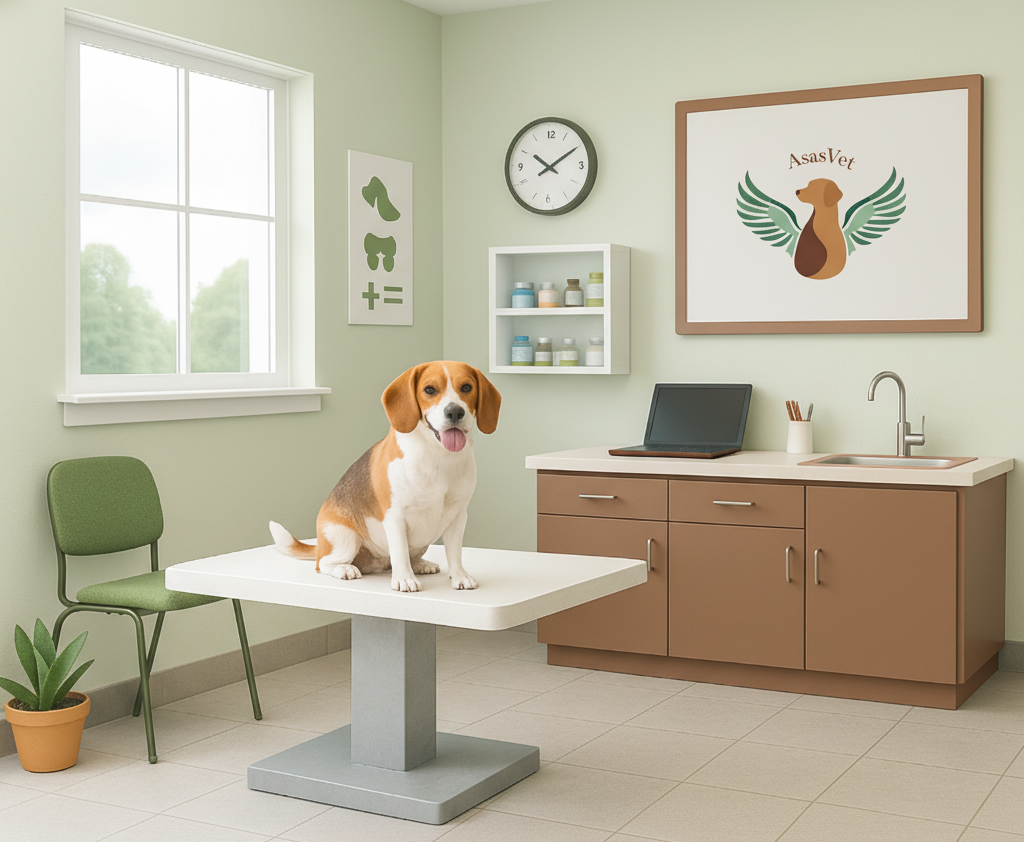
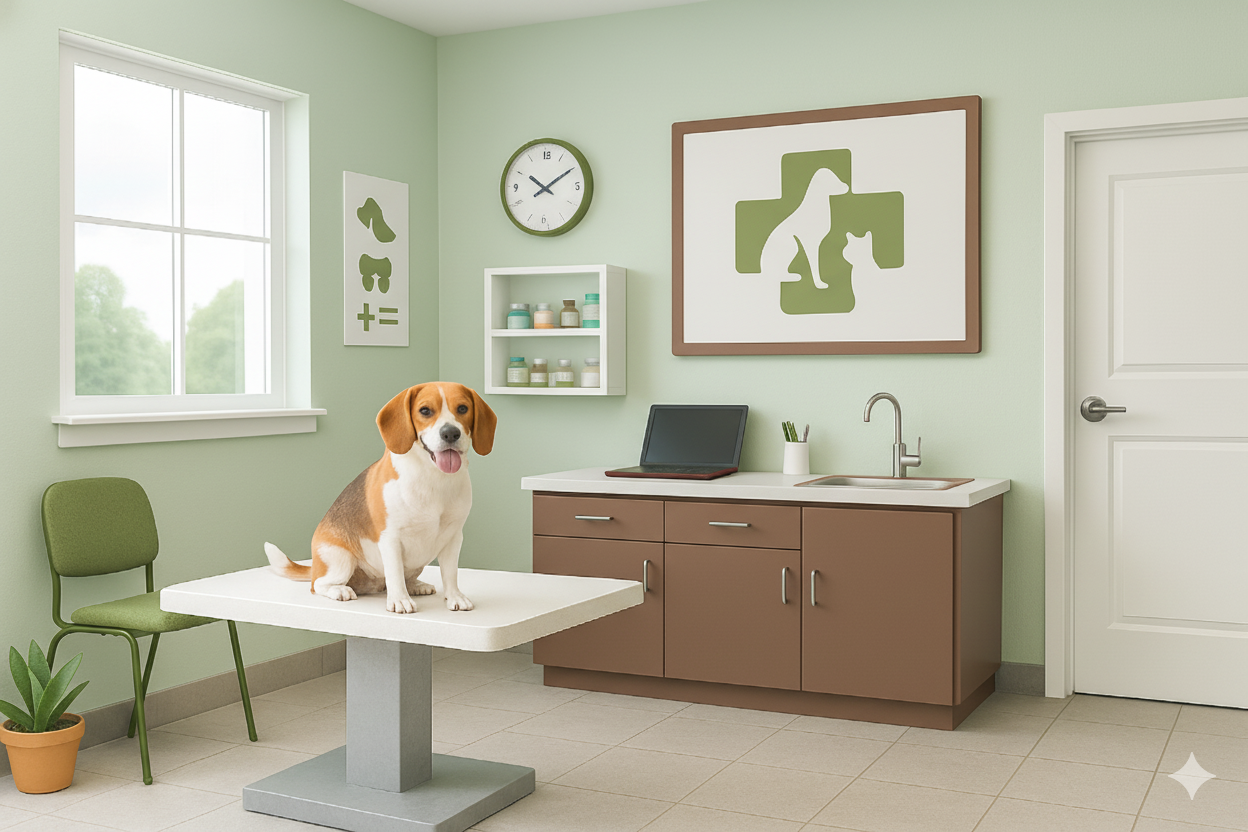
[dyad] Atualizando o background da página de login - wrote 2 file(s)

diff --git a/src/globals.css b/src/globals.css
@@ -470,7 +470,7 @@
 .login-art-bg {
   background-image: url('/public/images/fundologin.png'); /* Nova imagem de fundo */
   background-size: cover; /* Garante que a imagem cubra toda a área */
-  background-position: center 20%; /* Ajustado para mover o background para baixo */
+  background-position: center; /* Ajustado para centralizar o background */
   background-repeat: no-repeat; /* Evita a repetição da imagem */
   position: relative;
   overflow: hidden;
